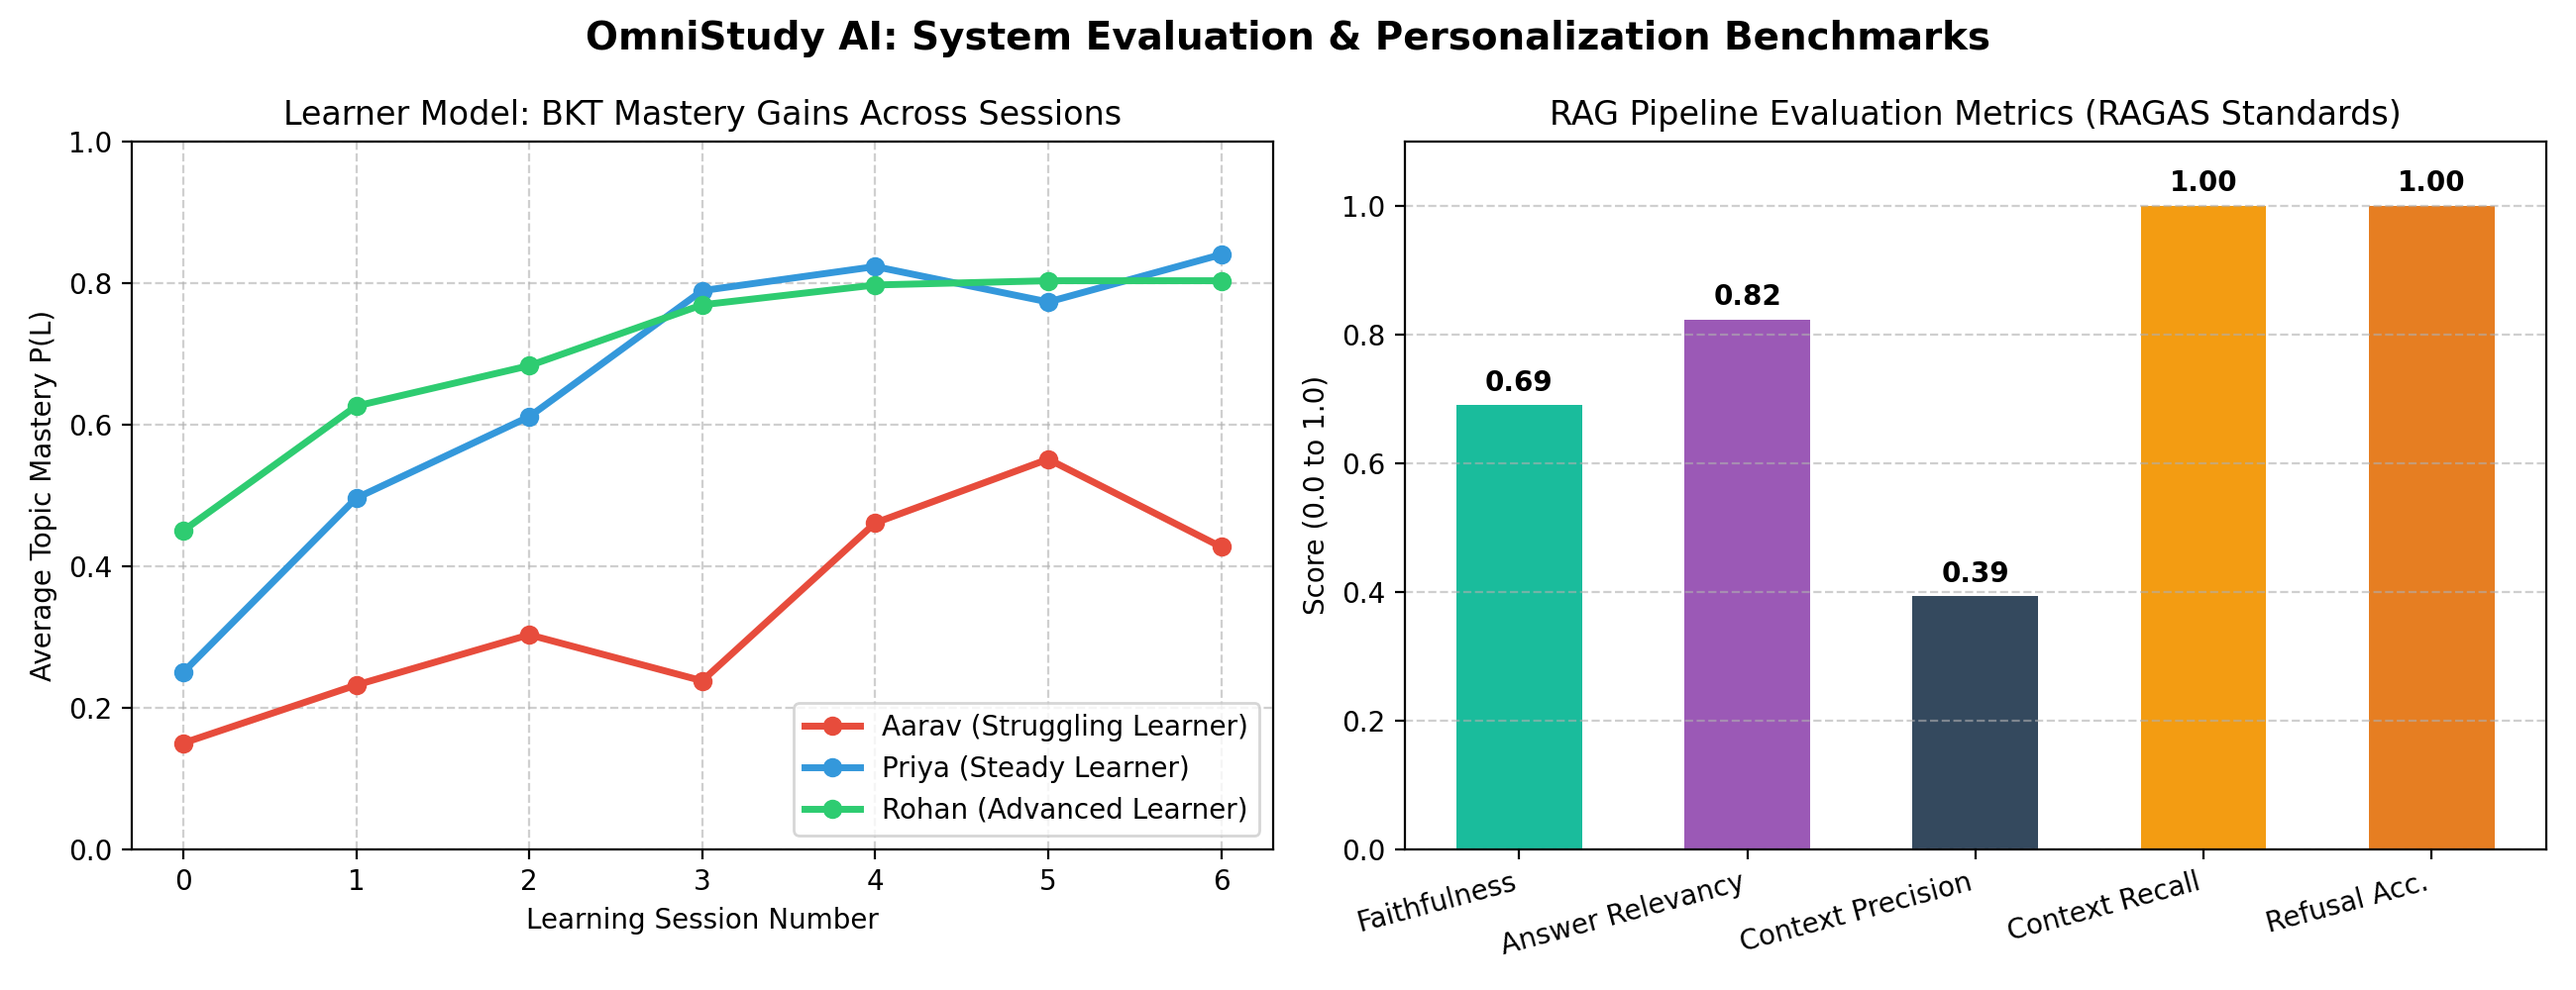
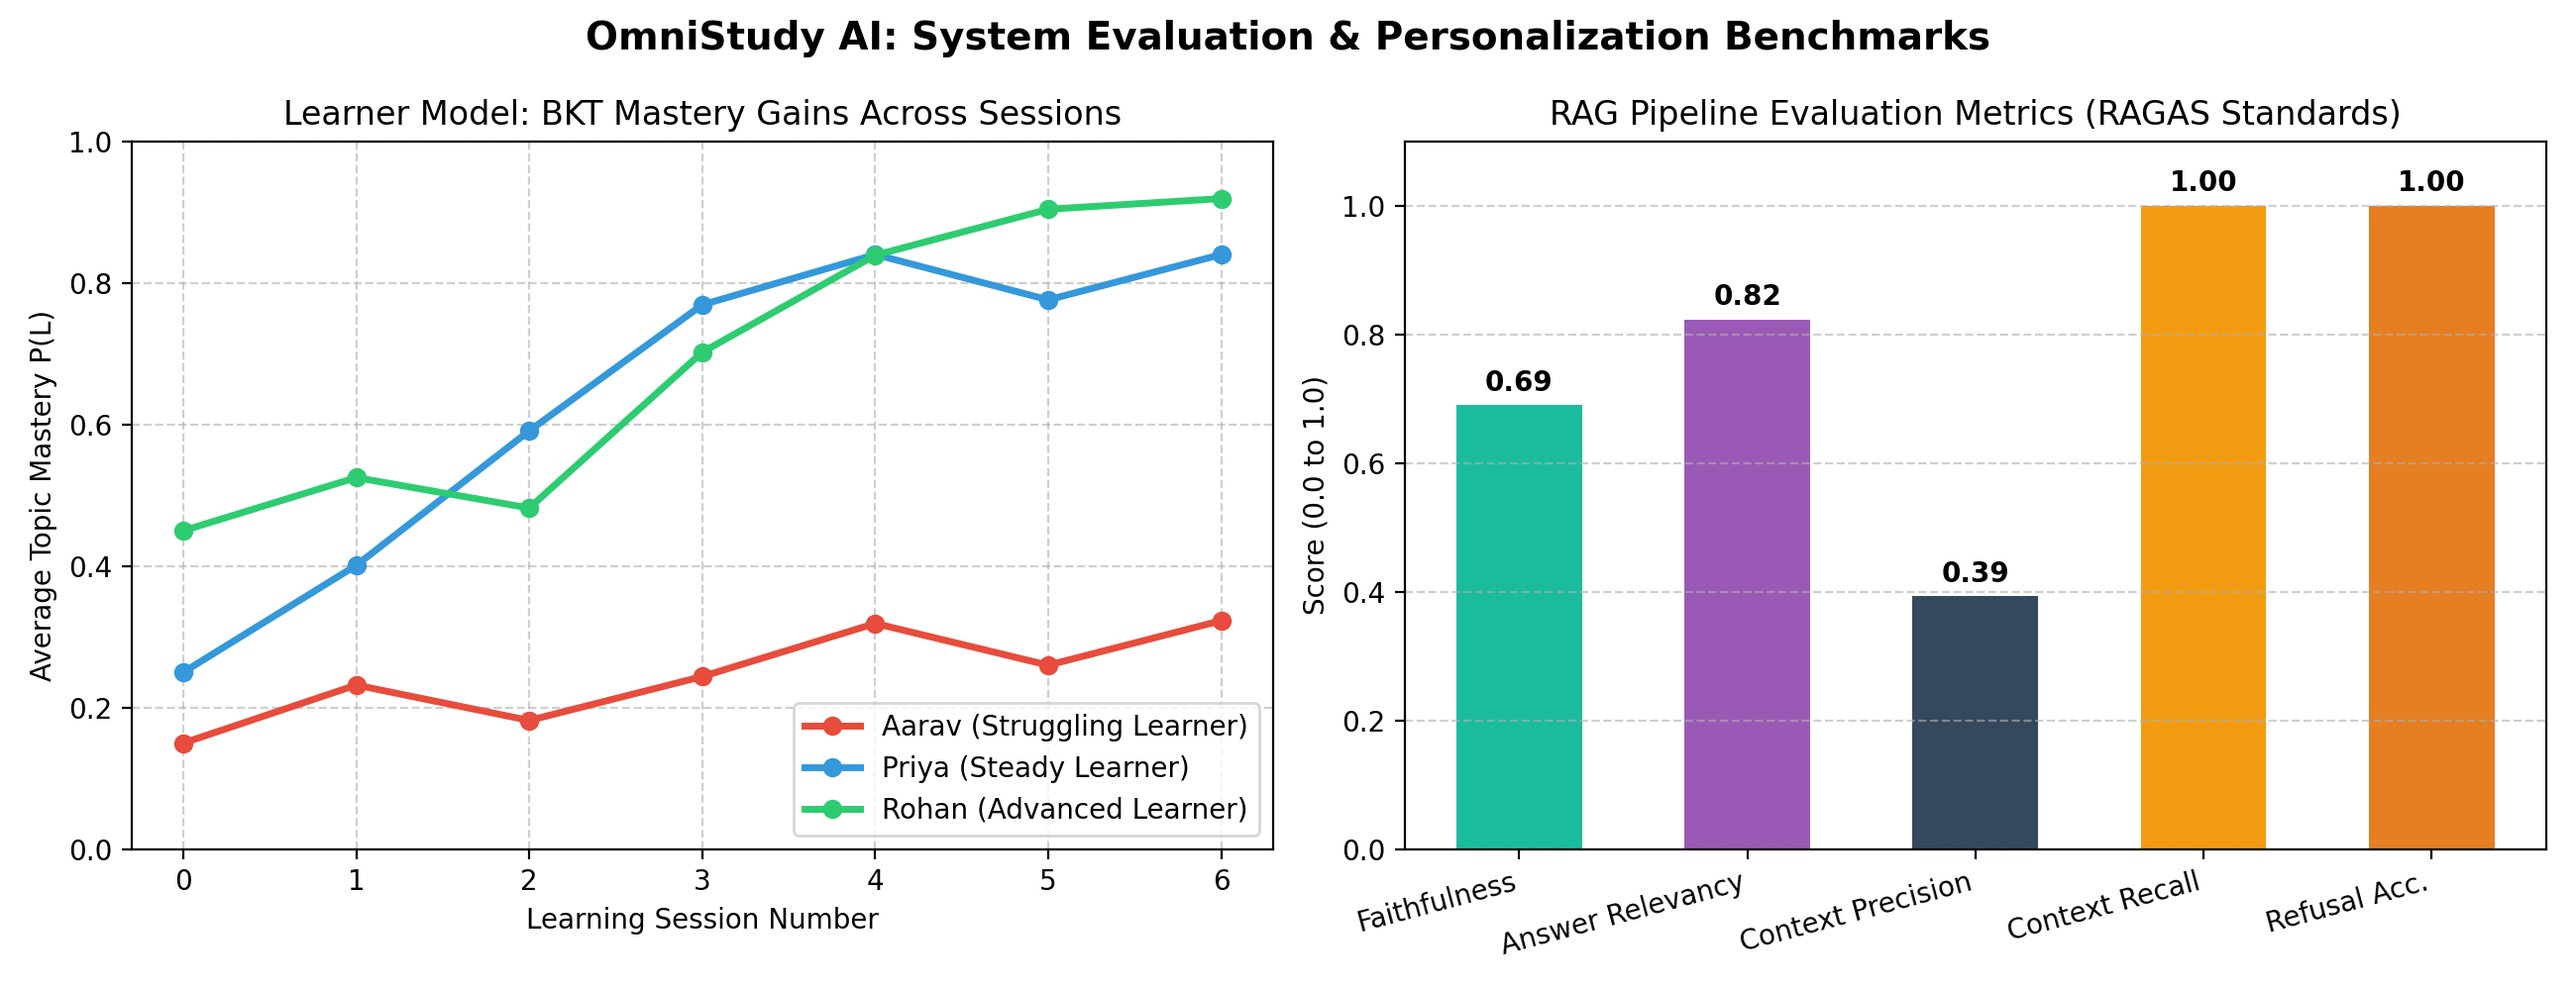
Add 1-click launcher, Streamlit config, and update README repo URL

diff --git a/README.md b/README.md
@@ -127,8 +127,8 @@ The system was evaluated using `run_evaluation.py` on a team-built Golden Test S
 
 ### 1. Clone & Install Dependencies
 ```bash
-git clone https://github.com/<your-username>/omnisty-ai.git
-cd omnisty-ai
+git clone https://github.com/praveenregar30/omnistudy-ai.git
+cd omnistudy-ai
 pip install -r requirements.txt
 ```
 
